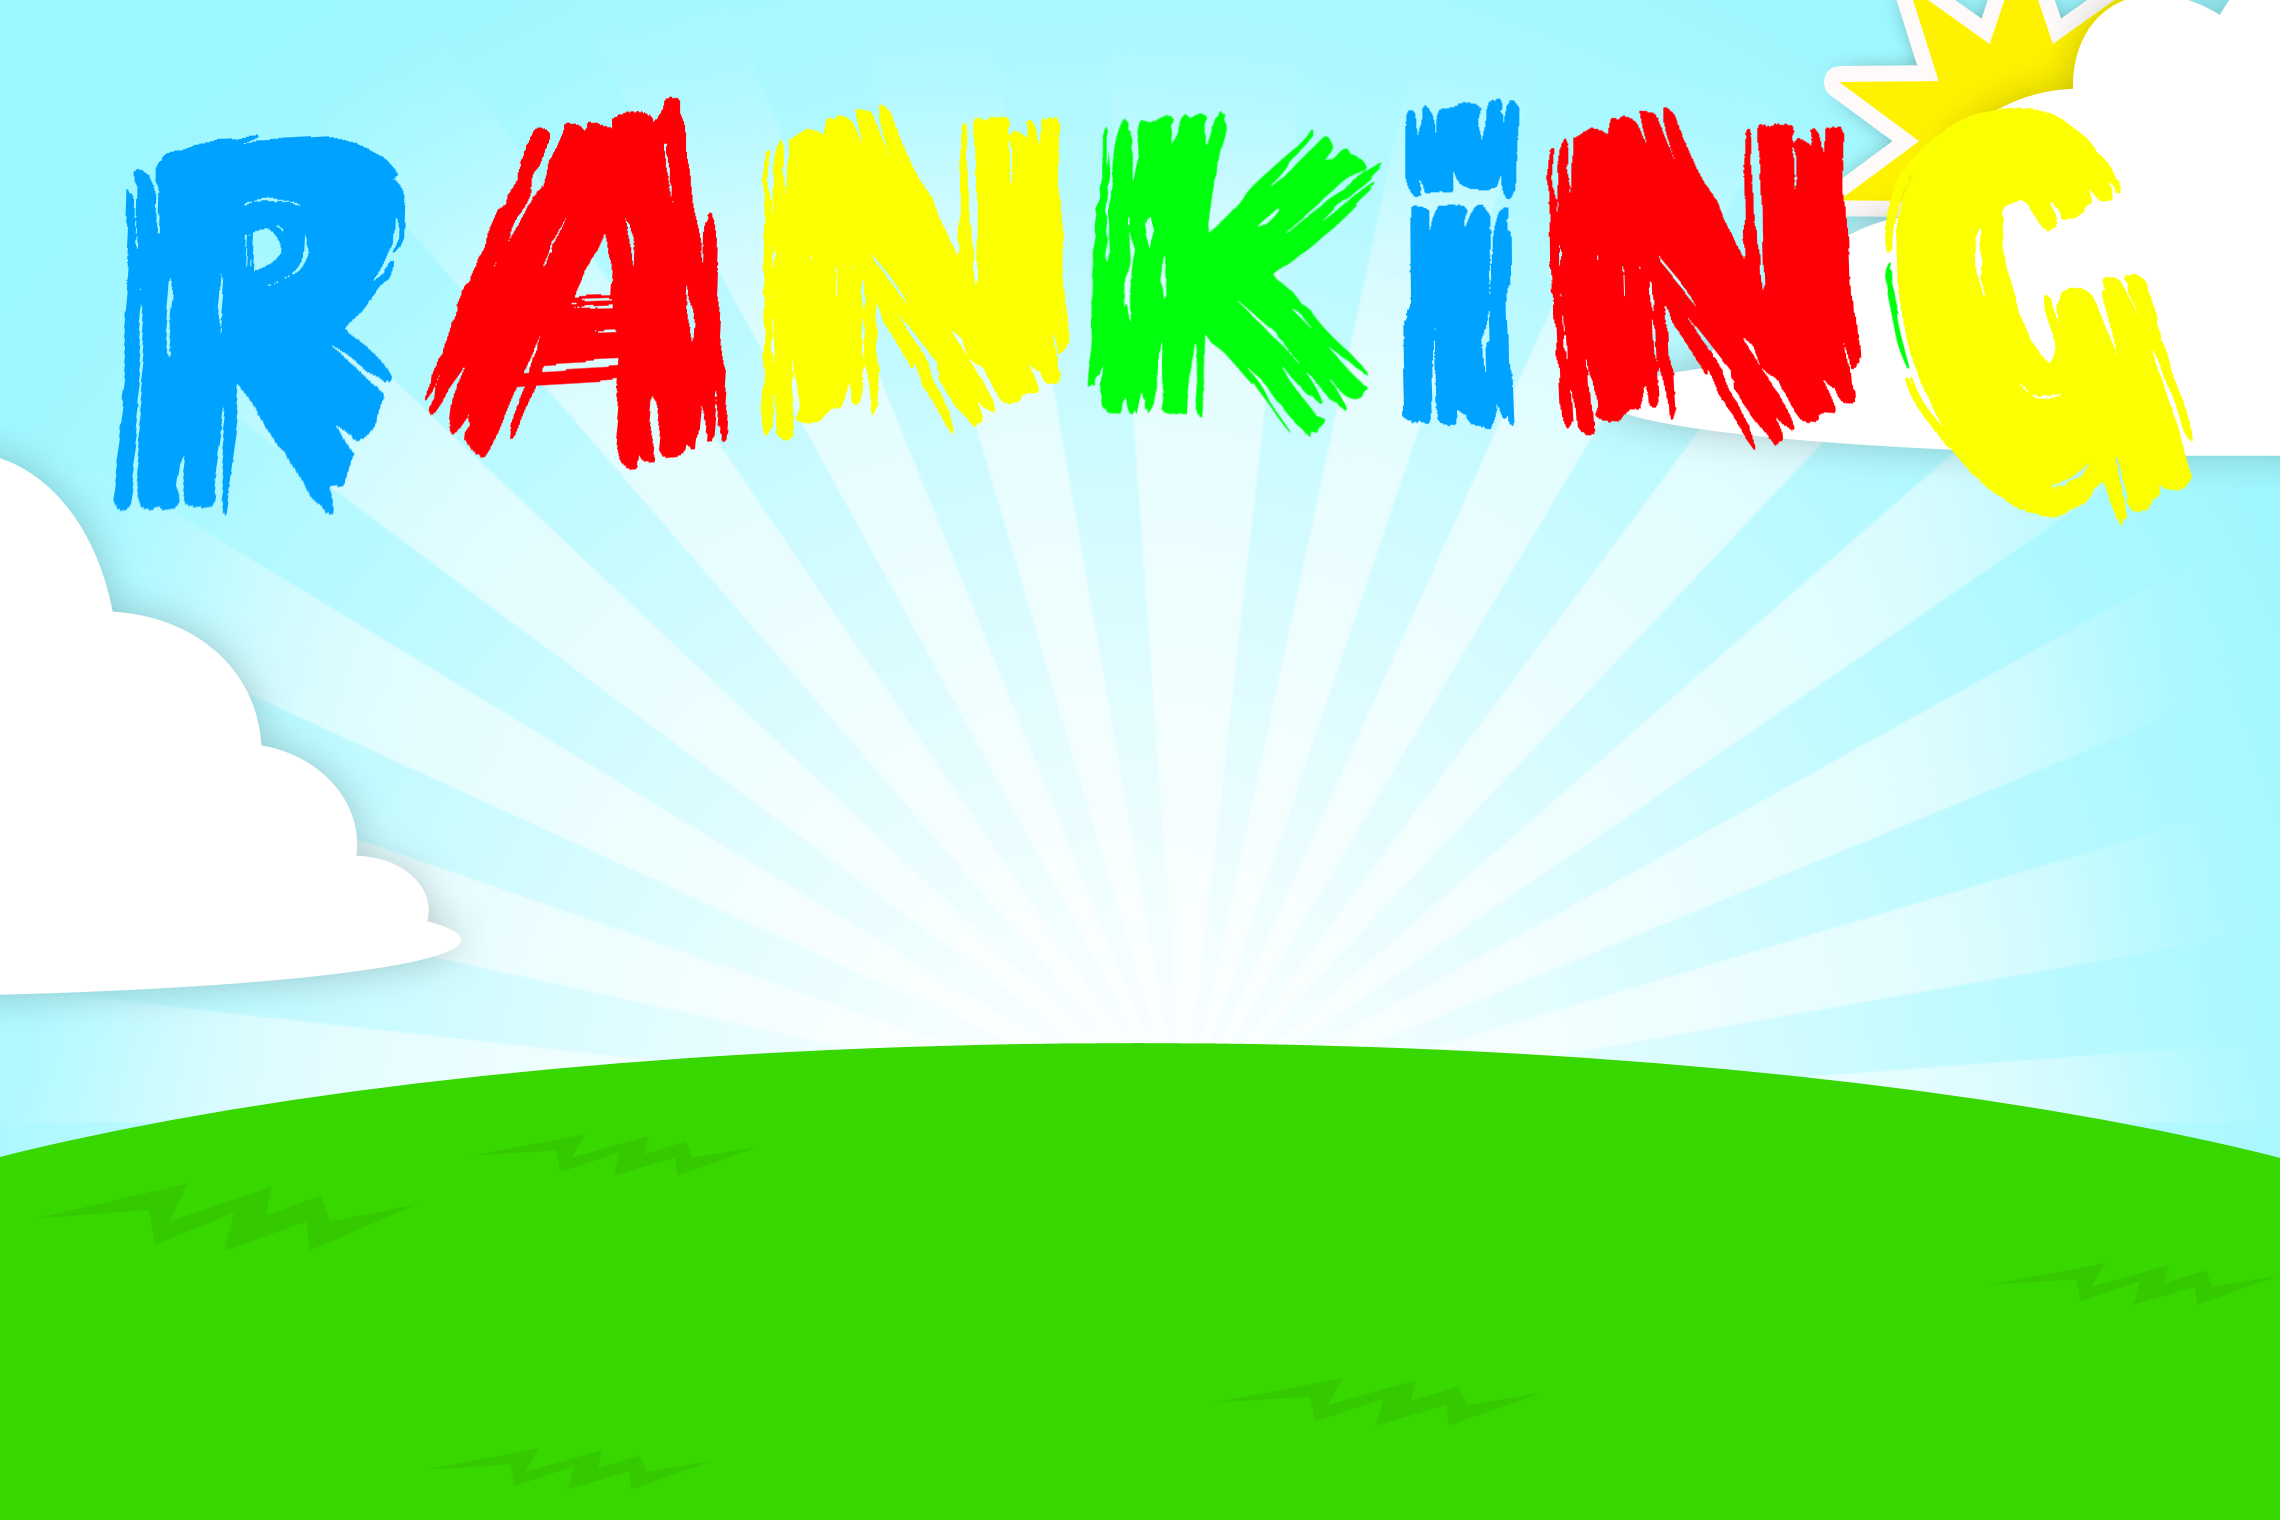
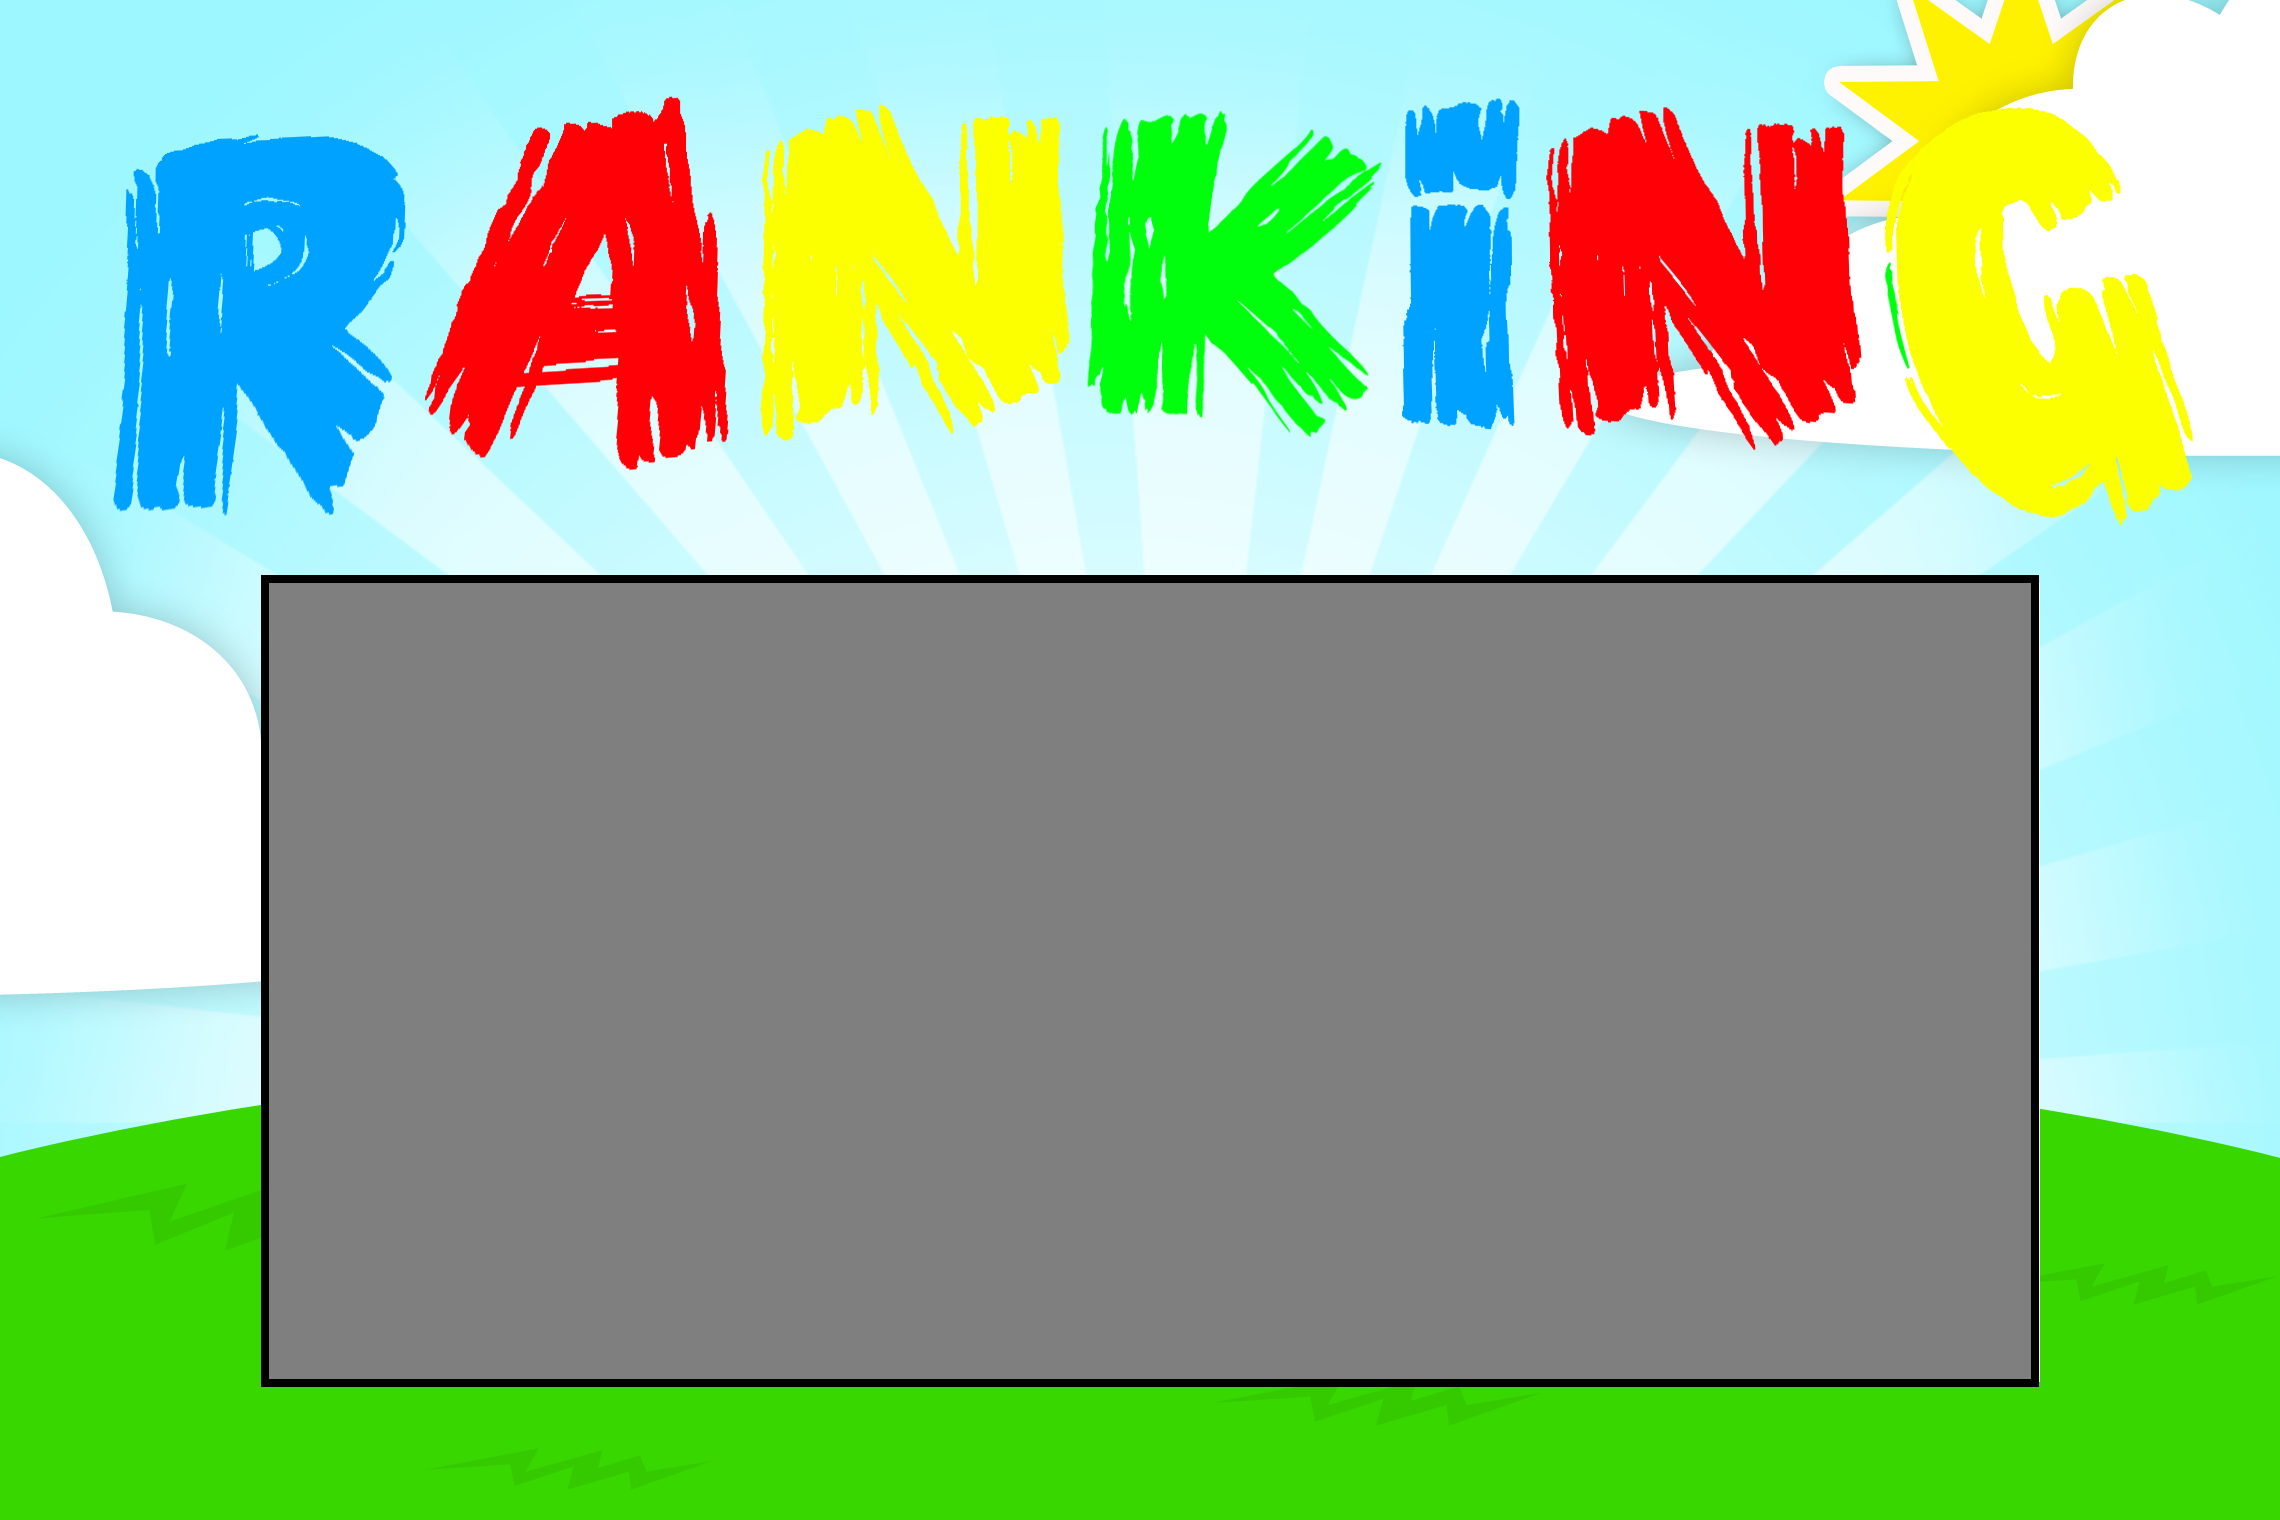
adding high scores

diff --git a/core/src/com/main/game/Ranking.java b/core/src/com/main/game/Ranking.java
@@ -3,23 +3,46 @@ package com.main.game;
 
 import com.badlogic.gdx.Gdx;
 import com.badlogic.gdx.Input;
+import com.badlogic.gdx.Preferences;
 import com.badlogic.gdx.graphics.GL20;
 import com.badlogic.gdx.graphics.Texture;
 import com.badlogic.gdx.scenes.scene2d.Actor;
 import com.badlogic.gdx.scenes.scene2d.Stage;
+import com.badlogic.gdx.scenes.scene2d.ui.Label;
 import com.badlogic.gdx.scenes.scene2d.ui.Skin;
 import com.badlogic.gdx.scenes.scene2d.ui.TextButton;
 import com.badlogic.gdx.scenes.scene2d.utils.ChangeListener;
 import com.badlogic.gdx.utils.viewport.FitViewport;
 
 public class Ranking extends BaseScreen{
+    /*
+    Primero llamamos a las preferencias:
+    Preferences pref = Gdx.app.getPreferences("leaderboard");
+
+    Para leer de las preferencias:
+     String name = prefs.getString("name", "No name stored");
+
+    Para escribir en las preferencias:
+    prefs.putString("name", "Donald Duck");
+    prefs.flush(); IMPORTANTE EL FLUSH, si no no se sobreescriben.
+
+    ejemplo para nuestro caso:
+    for(
+
+     */
 
     private Stage stage;
     private Skin skin;
     private TextButton back;
+    private Label first;
+    private Label second;
+    private Label third;
+    private Label fourth;
+    private Label fifth;
     // private Image logo;
-
     private Texture background;
+
+    Preferences pref = Gdx.app.getPreferences("leaderboard");
 
     public Ranking(final MyGdxGame game) {
         super(game);
@@ -41,8 +64,25 @@ public class Ranking extends BaseScreen{
 
         background = game.getManager().get("ranking.png");
 
+        first = new Label("1º PLACE: "+pref.getString("1", "Vamos"), skin);
+        first.setPosition(320 - first.getWidth() / 2, 208 - first.getHeight() / 2);
+        stage.addActor(first);
 
+        second = new Label("2º PLACE: "+pref.getString("2","puedes"), skin);
+        second.setPosition(320 - second.getWidth() / 2, 168 - second.getHeight() / 2);
+        stage.addActor(second);
 
+        third = new Label("3º PLACE: "+pref.getString("3", "conseguirlo"), skin);
+        third.setPosition(320 - third.getWidth() / 2, 128 - third.getHeight() / 2);
+        stage.addActor(third);
+
+        fourth = new Label("4º PLACE: "+pref.getString("4", "creyendo"), skin);
+        fourth.setPosition(320 - fourth.getWidth() / 2, 88 - fourth.getHeight() / 2);
+        stage.addActor(fourth);
+
+        fifth = new Label("5º PLACE: "+pref.getString("5", "en ti"), skin);
+        fifth.setPosition(320 - fifth.getWidth() / 2, 48 - fifth.getHeight() / 2);
+        stage.addActor(fifth);
     }
 
 
